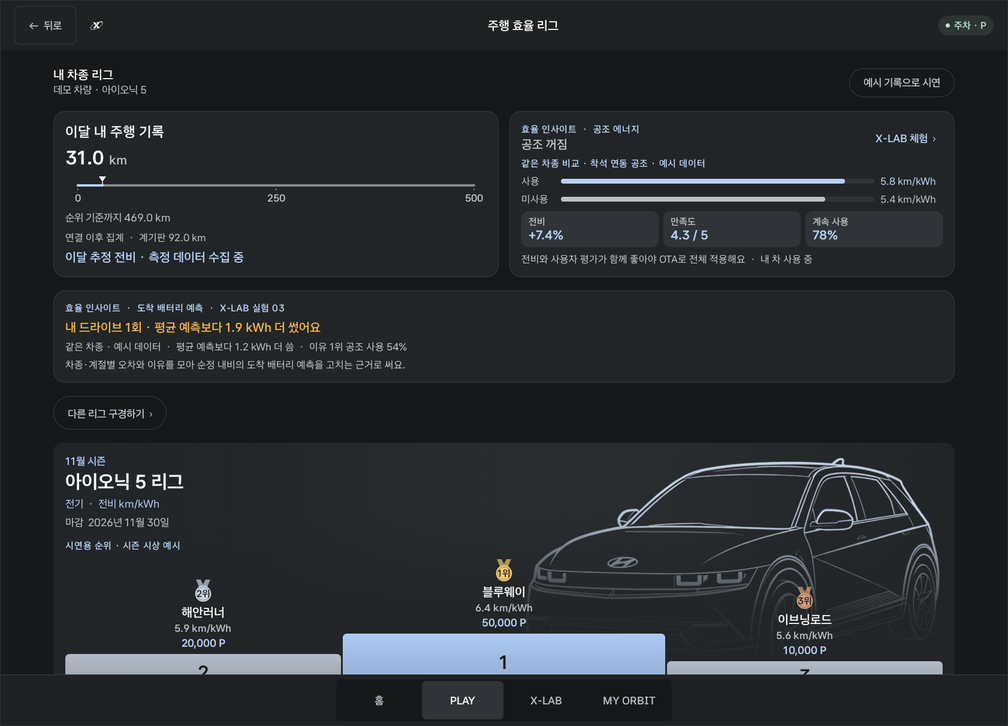
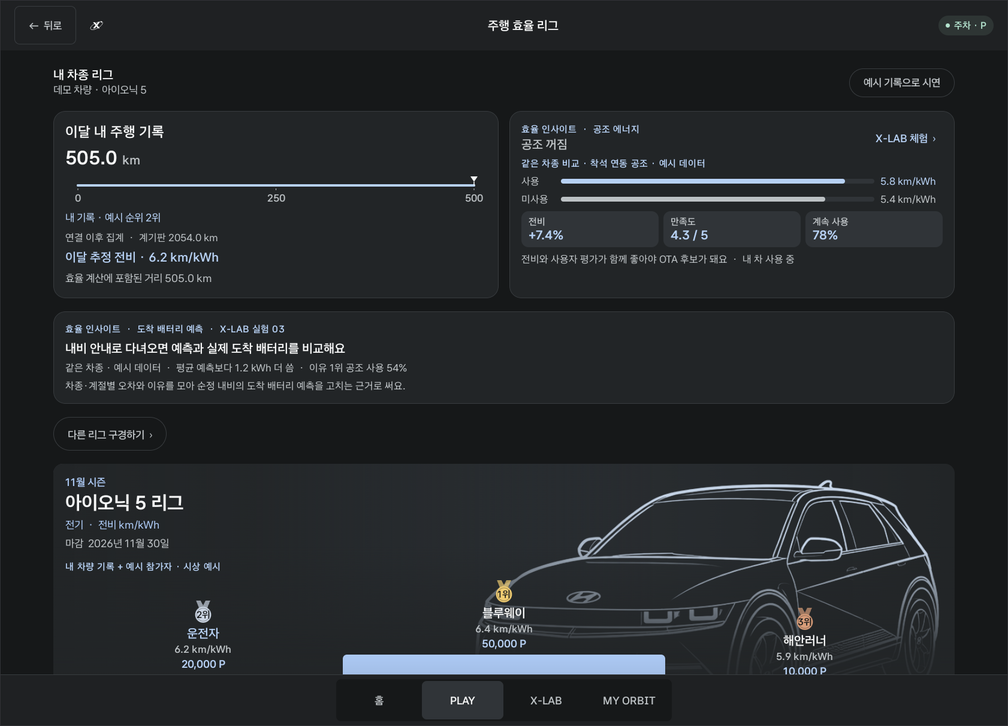
Reorganize the README for reading
Short intro with what PLAY, X-LAB and MY ORBIT each do, a clear note that tested
improvements are OTA candidates rather than releases, features grouped with the
navigation prediction check in one table, the experiment list as its own section,
numbered demo steps, and a scope table that separates what works, what is example data
and what needs Hyundai Motor Group. The league screenshot now shows the driver's entry
ranked by name.

Changed region(s): [[0.0615, 0.303, 0.9534, 0.9394], [0.0615, 0.2121, 0.4613, 0.303], [0.6766, 0.3333, 0.7996, 0.3636]]

diff --git a/README.md b/README.md
@@ -2,37 +2,39 @@
 
 > **Every Drive Shapes What's Next.** 모든 주행 경험이 다음 변화를 만듭니다.
 
-**ORBIT X**는 운전자가 차를 쓰면서 드러나는 **불편을 찾아내고, 개선안을 먼저 시험해 보고, 그 반응과 성과를 현대자동차그룹이 개선·OTA 여부를 판단하는 근거로 넘기는** Pleos Connect 앱입니다.
-**PLAY는 참여를 만들고, X-LAB은 개선의 근거를 만듭니다.** 현대자동차그룹 차량용 앱 개발 공모전 출품작입니다.
+**ORBIT X**는 운전자가 평소처럼 차를 쓰는 동안 드러나는 **불편을 찾고**, 개선안을 **실제 차에서 먼저 시험해 보고**, 그 반응과 성과를 현대자동차그룹이 **개선·OTA 여부를 판단하는 근거**로 넘기는 Pleos Connect 앱입니다. 현대자동차그룹 차량용 앱 개발 공모전 출품작입니다.
+
+- **PLAY**는 참여를 만듭니다. 주행 효율 리그, 드라이브, 미션으로 매일 쓸 이유를 줍니다.
+- **X-LAB**은 개선의 근거를 만듭니다. 개선안을 체험하고 기존 방식과 비교합니다.
+- **MY ORBIT**는 참여에 보상합니다. 포인트를 블루멤버스 포인트로 바꾸는 구조를 제안합니다.
 
 | 한눈에 보기 | |
 | --- | --- |
 | 앱 | ORBIT X · Android Automotive (Kotlin, Jetpack Compose) |
 | 개발·테스트 환경 | **Pleos Connect v2.1.0 에뮬레이터** · Android 14 (API 34) · x86_64 · **2560 × 1440 px, 160 dpi** |
 | 사용 SDK | Pleos Vehicle SDK 2.3.2 · Pleos NaviHelper 3.0.5 · Android Automotive OS API |
+| 화면 테마 | 시스템 설정을 따라 다크·라이트 모드 모두 지원 |
 | 실행 방법 | [실행 방법](#실행-방법) 참고 |
 | APK | 제출용 release APK는 `apk/` 폴더에 올릴 예정입니다. 시연용 debug APK는 `app/build/outputs/apk/debug/app-debug.apk`로 빌드됩니다. |
 
-**목차** · [핵심 아이디어](#핵심-아이디어) · [화면 미리보기](#화면-미리보기) · [기능](#기능) · [실행 방법](#실행-방법) · [시연 가이드](#시연-가이드) · [데이터와 개인정보](#데이터와-개인정보) · [향후 활용](#향후-차량-개발에-어떻게-쓰나요) · [구현 범위](#구현-범위와-sdk)
+**목차** · [핵심 아이디어](#핵심-아이디어) · [화면 미리보기](#화면-미리보기) · [기능](#기능) · [실험 목록](#실험-목록) · [실행 방법](#실행-방법) · [시연 가이드](#시연-가이드) · [데이터와 개인정보](#데이터와-개인정보) · [향후 활용](#향후-차량-개발에-어떻게-쓰나요) · [구현 범위](#구현-범위와-sdk)
 
 ---
 
 ## 핵심 아이디어
 
-### 불편 발견 → 개선안 → 시험 → 업데이트
+### 불편 발견 → 개선안 → 시험 → 판단·업데이트
 
 | 단계 | ORBIT X에서 하는 일 | 앱의 실제 기능 |
 | --- | --- | --- |
-| **1. 발견** (PLAY) | 평소 주행에서 차량 신호와 운전자 반응으로 불편·낭비를 찾음 | 주행 효율 리그, 드라이브 리포트, 미션의 미사용 이유, 빈 좌석 공조 감지 |
-| **2. 개선안** (X-LAB) | 개선 아이디어를 실제 차량 기능으로 먼저 체험 | 착석 연동 공조(실제 공조 제어), OTA 도어 잠금(실제 도어 제어) |
-| **3. 시험** | 기존 방식과 개선안을 같은 과제·같은 차종으로 비교 | A/B 비교(운전자 조작 여부·선호 이유), 순정 기능 예측과 실제 비교(도착 배터리), 사용/미사용 차량 비교, 만족도·계속 사용 의향 |
-| **4. 판단·업데이트** | 사용자 반응과 실제 성과가 함께 확인된 개선만 현대자동차그룹 개발·검증을 거쳐 OTA 후보가 됨. 반응이 없거나 효과가 없으면 고쳐 다시 시험하거나 중단 | 리그·장기 미션으로 배포 후 재확인 (OTA 배포 자체는 그룹 개발·배포 체계와 연계가 필요하며 앱에는 없음) |
+| **1. 발견** (PLAY) | 평소 주행의 차량 신호와 운전자 반응으로 불편·낭비를 찾음 | 주행 효율 리그, 드라이브 리포트, 미션의 미사용 이유, 빈 좌석 공조 감지 |
+| **2. 개선안** (X-LAB) | 개선 아이디어를 실제 차량 기능으로 먼저 체험 | 착석 연동 공조(실제 공조 제어), 도어 잠금 OTA 평가(실제 도어 제어) |
+| **3. 시험** | 기존 방식과 개선안, 순정 기능의 예측과 실제를 같은 조건에서 비교 | A/B 비교(운전자 조작 여부·선호 이유), 내비 예상 전비·도착 배터리 vs 실제, 사용/미사용 차량 비교, 만족도·계속 사용 의향 |
+| **4. 판단·업데이트** | 반응과 성과가 함께 확인된 개선만 현대자동차그룹 개발·검증을 거쳐 OTA 후보가 됨. 아니면 고쳐 다시 시험하거나 중단 | 리그·장기 미션으로 배포 후 재확인 (OTA 배포 자체는 그룹 개발·배포 체계와 연계가 필요하며 앱에는 없음) |
 
-운전자는 리그·드라이브·미션으로 참여하며 포인트를 받고, 현대자동차그룹은 **무엇이 불편한지, 왜 그런지, 개선이 실제로 나아졌는지**를 근거로 다음 업데이트를 결정합니다.
+> **시험한다고 모두 배포되는 것은 아닙니다.** X-LAB은 개선안이 정말 나은지 가려내는 곳입니다. 운전자 반응이 없거나 전비·조작 같은 실제 성과가 나오지 않으면 고쳐서 다시 시험하거나 접습니다. 효과가 확인된 개선도 바로 차에 들어가지 않고, 현대자동차그룹의 개발·안전·품질 검증과 OTA 배포 체계를 거쳐야 합니다. ORBIT X가 맡는 것은 **그 판단에 쓸 근거를 모으는 부분**입니다.
 
-> **시험한다고 모두 배포되는 것은 아닙니다.** X-LAB은 개선안이 정말 나은지 가려내는 곳입니다. 운전자 반응이 없거나 전비·조작 같은 실제 성과가 나오지 않으면 그 개선안은 고쳐서 다시 시험하거나 접습니다. 반대로 효과가 확인된 개선도 바로 차에 들어가지 않고, 현대자동차그룹의 개발·안전·품질 검증과 OTA 배포 체계를 거쳐야 합니다. ORBIT X가 맡는 것은 그 판단에 쓸 근거를 모으는 부분입니다.
-
-> **공조 효율화는 이 순환의 첫 번째 사례일 뿐입니다.** 리그에서 "빈 좌석 공조가 전비를 깎을 수 있다"는 낭비 가능성을 발견하고(전비 차이만으로 원인을 단정하지 않음), X-LAB에서 착석 연동 공조를 시험해 실제 전비 차이와 운전자 만족을 확인한 뒤, 효과가 있을 때만 OTA 후보로 넘기는 흐름을 처음부터 끝까지 보여주기 위해 골랐습니다. 같은 틀로 도어 잠금 OTA 평가와 순정 내비의 도착 배터리 예측을 실제 도착 배터리와 맞춰 보는 실험을 구현했고, 지금 Pleos Connect에서 불편한 점(송풍구 방향 조절, 여러 화면에 겹치는 주행 정보, Gleo 음성 명령 실패)을 다음 실험으로 올려 두었습니다. 모든 실험은 드라이브 리포트 질문을 공통으로 쓰고, 숫자로 볼 수 있는 실험은 주행 효율 리그로 효과를 재며, 실험마다 PLAY 하나만 더합니다.
+> **공조는 첫 번째 사례일 뿐입니다.** 리그에서 "빈 좌석 공조가 전비를 깎을 수 있다"는 낭비 가능성을 발견하고(전비 차이만으로 원인을 단정하지 않음), X-LAB에서 착석 연동 공조를 시험해 실제 전비 차이와 만족도를 확인한 뒤, 효과가 있을 때만 OTA 후보로 넘기는 흐름을 보여 주려고 골랐습니다. 같은 틀로 **도어 잠금 OTA 평가**와 **순정 내비의 도착 배터리 예측 검증**을 구현했고, 지금 Pleos Connect에서 불편한 점(송풍구 방향 조절, 여러 화면에 겹치는 주행 정보, Gleo 음성 명령 실패)을 다음 실험으로 올려 두었습니다.
 
 ### 이름에 담은 뜻
 
@@ -47,40 +49,33 @@
 
 ## 화면 미리보기
 
-Pleos Connect v2.1.0 에뮬레이터에서 현재 빌드로 캡처했습니다. 기록을 초기화한 뒤 순정 내비로 팔당전망대 안내를 시작하고, Virtual Console로 주행(31 km, 배터리 58.0 → 52.1 kWh, 속도·브레이크 변화)을 넣어 리그·드라이브 리포트·주행 습관 값을 만들었습니다. 앱 화면은 앱 영역만 잘랐고, 내비 화면은 전체 화면입니다.
+Pleos Connect v2.1.0 에뮬레이터에서 현재 빌드로 캡처했습니다. 순정 내비로 안내를 받고 Virtual Console로 주행·배터리·속도를 넣어 값을 만들었습니다. 앱 화면은 앱 영역만 잘랐고, 내비 화면은 전체 화면입니다.
 
 | 홈 | 주행 효율 리그 |
 | --- | --- |
 | ![홈](docs/screenshots/01_home.png) | ![리그](docs/screenshots/02_league.png) |
-| 슬로건과 인사말, PLAY·X-LAB 진입, 포인트 | 이달 주행 기록, 공조 인사이트와 같은 차종 비교(예시), 도착 배터리 예측 인사이트(내 기록 + 예시), 순위(예시) |
-| **드라이브** | **X-LAB** |
+| 슬로건과 인사말, PLAY·X-LAB 진입, 포인트 | 이달 505 km로 순위 등록(이용자 이름 "운전자" 2위), 공조 인사이트·같은 차종 비교(예시), 도착 배터리 예측 카드 |
+| **드라이브** | **X-LAB 실험 목록** |
 | ![드라이브](docs/screenshots/04_drive.png) | ![X-LAB](docs/screenshots/08_xlab_experiments.png) |
-| 진행 중 경로(남은 거리·시간·도착 배터리·내비 예상 전비), 드라이브 리포트(31 km · 5.9 kWh · 예상 전비 7.8 → 실제 5.3 km/kWh, 도착 배터리 54.0 → 52.1 kWh, 주행 중 측정), 실험 03 질문, 나의 드라이브 기록 | X-LAB → 실험 목록: 실험 6개의 단계(발견 → 시험 → 배포 → 재확인, 효과가 없으면 보류·중단)와 연결된 PLAY, 응답 수 |
-| **착석 연동 공조** | **OTA 평가 (실제 도어 제어)** |
+| 진행 중 경로(남은 거리·시간·도착 배터리·내비 예상 전비)와 드라이브 리포트(예상 전비 7.8 → 실제 5.3 km/kWh, 도착 배터리 54.0 → 52.1 kWh, 주행 중 측정), 실험 03 질문 | 실험 6개의 단계(발견 → 시험 → 배포 → 재확인)와 연결된 PLAY, 응답 수 |
+| **착석 연동 공조** | **도어 잠금 OTA 평가** |
 | ![공조](docs/screenshots/09_climate.png) | ![OTA](docs/screenshots/10_ota.png) |
-| 빈 차량을 감지해 순정 공조를 끄고 "에너지 절약" 표시 | Vehicle SDK로 네 문을 잠그고 풀며 버튼을 평가 |
+| 빈 차량을 감지해 순정 공조를 끄고 "에너지 절약" 표시 | Vehicle SDK로 실제 네 문을 잠그고 풀며 버튼을 평가 |
 | **MY ORBIT** | **개선안 비교 (실제 차량 A/B)** |
 | ![MY ORBIT](docs/screenshots/11_my_orbit.png) | ![A/B 비교](docs/screenshots/13_ab_compare.png) |
-| 포인트와 블루멤버스 전환 안내 | 순정 공조로 직접 SYNC 켜기(직접 조작) vs 착석하면 자동으로(조작 0회), 운전자가 손대야 하는지 비교 |
+| 포인트와 블루멤버스 전환 안내 | 직접 SYNC 켜기(직접 조작) vs 앉으면 자동으로(조작 0회) |
 
 ### 주행 중 (기어 D)
 
-| 앱 화면 잠금 | 순정 내비 위 충전 알림 (순정 저잔량 안내와 같은 역할) | 알림 버튼 → 순정 내비 충전소 목록 |
+| 앱 화면 잠금 | 내비 위 충전 알림 | 알림 버튼 → 충전소 목록 |
 | --- | --- | --- |
 | ![주행 중 잠금](docs/screenshots/03_drive_lock.png) | ![내비 알림](docs/screenshots/05_nav_alert_driving.png) | ![충전소](docs/screenshots/06_nav_chargers.png) |
-| Pleos 주행 제한에 따라 "주행 중에는 사용할 수 없습니다." 표시. P로 돌아오면 다시 조작 | 앱을 열지 않고 내비 위에 제안 | 경로 주변 충전소를 고르면 내비가 경유지로 추가 |
+| Pleos 주행 제한에 따라 "주행 중에는 사용할 수 없습니다." 표시. P로 돌아오면 다시 조작 | 앱을 열지 않고 내비 위에 안내 (순정 저잔량 안내와 같은 역할) | 경로 주변 충전소를 고르면 내비가 경유지로 추가 |
 
-| 내비 위 주행 습관 안내 |
-| --- |
-| ![주행 습관 안내](docs/screenshots/14_nav_driving_tip.png) |
-| 급가속·급제동이 3번 쌓이면 3초만 띄우고 스스로 사라집니다. 한 드라이브에 최대 2번. |
-
-### 도착 후 (기어 P)
-
-| 내비 위 X-LAB 실험 질문 |
-| --- |
-| ![실험 질문](docs/screenshots/12_nav_experiment_question.png) |
-| 도착 후 주차하면 이번 드라이브의 실험 질문을 내비 위에 띄웁니다. 앱을 다시 열지 않고 버튼 하나로 답하고, 응답은 X-LAB 실험 카드에 쌓입니다. 주행 중에는 띄우지 않습니다. |
+| 내비 위 주행 습관 안내 | 도착 후 내비 위 X-LAB 실험 질문 (기어 P) |
+| --- | --- |
+| ![주행 습관 안내](docs/screenshots/14_nav_driving_tip.png) | ![실험 질문](docs/screenshots/12_nav_experiment_question.png) |
+| 급가속·급제동이 3번 쌓이면 3초만 띄우고 스스로 사라짐. 한 드라이브에 최대 2번 | 주차하면 이번 드라이브의 실험 질문을 띄우고 버튼 하나로 답함. 주행 중에는 띄우지 않음 |
 
 ---
 
@@ -91,20 +86,37 @@ Pleos Connect v2.1.0 에뮬레이터에서 현재 빌드로 캡처했습니다. 
 ### PLAY · 발견
 
 **주행 효율 리그**
-- 같은 차종끼리 월간 추정 전비(km/kWh)·연비(km/L)를 비교합니다. 누적거리와 배터리 에너지로 계산하고 충전 구간은 뺍니다. 주행 중 내비가 앞에 있어 앱이 뒤로 가도 백그라운드 서비스가 계속 기록합니다. **실제 SDK**
-- **효율 인사이트:** 주차 중 착석과 공조 구역 전원을 읽기 전용으로 확인해, 빈 좌석에 공조가 켜져 있으면 앰버색으로 알려 줍니다. **실제 SDK**
-- **같은 차종 비교:** 착석 연동 공조 사용/미사용 차량의 전비와 만족도·계속 사용 비율. 실제 다수 차량을 분석한 값이 아니라, 서버 집계가 생겼을 때 보여 줄 화면을 예시 값으로 만든 것입니다. **예시**
-- 순위·경쟁자·시상액. **예시**
+- **월간 추정 전비·연비:** 같은 차종끼리 비교합니다. 누적거리와 배터리 에너지로 계산하고 충전 구간은 뺍니다. 내비가 앞에 있어 앱이 뒤로 가도 백그라운드 서비스가 계속 기록합니다. **실제 SDK**
+- **순위 등록:** 이달 500 km를 넘으면 내 기록이 **앱 이용자 이름**(기본은 Pleos 프로필 이름 "운전자")으로 순위에 올라갑니다. **실제 SDK** · 다른 참가자·시상액은 **예시**
+- **공조 인사이트:** 주차 중 착석과 공조 구역 전원을 읽기 전용으로 확인해, 빈 좌석 공조가 켜져 있으면 앰버색으로 알려 줍니다. **실제 SDK**
+- **도착 배터리 예측 카드:** 내 드라이브들의 평균 예측 오차를 보여 줍니다(X-LAB 실험 03). **실제 SDK** · 같은 차종 평균은 **예시**
+- **같은 차종 비교:** 착석 연동 공조 사용/미사용 차량의 전비·만족도·계속 사용 비율. 실제 다수 차량 분석이 아니라 서버 집계가 생겼을 때의 화면을 예시 값으로 만든 것입니다. **예시**
 
 **드라이브**
-- **출발 전 확인:** 차량 주행가능거리로 왕복 가능 거리, 배터리, 실내온도를 보여주고, 너무 춥거나 더우면 열선·착석 연동 공조 팁을 줍니다. **실제 SDK**
-- **자동으로 흘러가는 드라이브:** 순정 내비에서 안내를 시작하면 추천 모드로 드라이브가 자동 시작되고, 목적지가 자동 연결되며, 도착 이벤트로 기록이 자동 완료됩니다. **실제 SDK**
-- **경로 에너지 확인:** 남은 거리·시간·도착 시 예상 배터리(내비가 kWh로 알려 준 값을 현재 배터리 기준 %로 환산)와 **내비 예상 전비**(남은 거리 ÷ 내비가 예상한 사용 에너지)를 보여주고, 왕복이 주행가능거리보다 길면 충전소를 제안합니다. **실제 SDK**
-- **내비 예상 전비 vs 실제 전비, 도착 배터리 예측 vs 실제 (X-LAB 실험 03):** 드라이브 모드를 따로 고르지 않아도 순정 내비로 목적지를 검색해 안내를 받으면 자동으로 기록됩니다(드라이브 코스 추천은 그대로 둡니다). 현대·기아 순정 내비는 이미 도착 배터리를 예측하고, 모자라면 충전소를 경유지로 넣어 줍니다(EV 경로 플래너). ORBIT X는 이 기능을 다시 만들지 않고, 그 **예측이 실제와 얼마나 맞는지**를 기록합니다. 안내를 시작할 때 NaviHelper가 알려 준 도착 시 남는 에너지(kWh)를 저장하고, 도착하면 Vehicle SDK로 읽은 배터리 에너지와 비교해 드라이브 리포트에 "예상 전비 7.8 → 실제 5.3 km/kWh · 예측보다 1.9 kWh 더 씀"처럼 보여 줍니다(예상 전비 = 출발 때 경로 거리 ÷ (출발 배터리 − 예상 도착 배터리)). 주행 중에는 차이의 원인이 될 만한 것을 함께 잽니다: 급가속·급제동 횟수(차량 속도를 0.5초마다 읽어 3 m/s² 넘게 빨라지거나 3.5 m/s² 넘게 줄어든 순간, 급제동은 브레이크 페달 상태도 확인), 공조를 켠 시간, 평균 속도. 리포트에 "주행 중 측정 · 급가속 4회 · 급제동 2회 · 공조 32분 (추정 약 0.5 kWh) · 평균 52 km/h"처럼 남기고(공조 에너지는 평균 1 kW로 가정한 참고용 추정치이며 실제 소비는 외기온·히트펌프에 따라 크게 다름), 차이가 나면 이유(공조 사용, 정체·경로)를 한 번 묻습니다. 중간에 충전한 드라이브는 비교에서 뺍니다. 가속 페달 값은 SDK에 없어 급가속으로만 보고, 제한속도는 내비가 주지 않아 과속은 판단하지 않습니다. **실제 SDK**
-- **주행 습관 안내:** 급가속·급제동이 한 드라이브에서 3번 쌓이면 순정 내비 위에 "급가속 2회 · 급제동 1회 / 전비에 악영향을 줄 수 있어요. 부드럽게 안전운전하세요."를 3초만 띄우고 스스로 사라집니다. 누를 필요가 없고, 한 드라이브에 최대 2번(3회, 6회째)만 띄워 자주 방해하지 않습니다. **실제 SDK**
-- **주행 중 내비 위 알림:** 배터리가 부족하면(도착 예상 30% 이하 또는 현재 25% 이하) 순정 내비 위에 알림을 띄우고 버튼 하나로 순정 내비의 경로 주변 충전소 목록을 엽니다. 순정 저잔량 안내와 같은 역할이라 차별 기능으로 내세우지 않습니다. **실제 SDK**
-- **드라이브 리포트:** 출발·도착 때 읽은 값으로 거리·사용 에너지·전비를 계산하고, 내비 안내로 다녀왔다면 도착 배터리 예측 vs 실제와 주행 중 측정(급가속·급제동·공조·평균 속도)을 함께 보여 줍니다. 질문은 한 번에 하나(기분 한 줄 → 추천이 맞았는지 → X-LAB 실험 질문 하나)만 묻고(실험 질문은 도착 후 내비 위 알림으로도 답할 수 있음), 실제 목적은 도착 후 **목적 바꾸기**로 고칩니다. **실제 SDK**
+- **출발 전 확인:** 주행가능거리로 왕복 가능 거리, 배터리, 실내온도를 보여 주고, 너무 춥거나 더우면 열선·착석 연동 공조 팁을 줍니다. **실제 SDK**
+- **추천과 자동 연결:** 차량 상황으로 드라이브 모드(충전 들르기·동승자와 나들이·편한 경로·기분 전환)를 추천하고, 버튼 하나로 순정 내비 검색을 엽니다. 순정 내비에서 안내를 시작하면 드라이브가 자동 시작되고 목적지가 연결되며, 도착하면 자동으로 기록됩니다. **실제 SDK**
+- **경로 에너지 확인:** 남은 거리·시간, 도착 시 예상 배터리, **내비 예상 전비**를 보여 주고, 왕복이 주행가능거리보다 길면 충전소를 제안합니다. **실제 SDK**
+- **드라이브 리포트:** 출발·도착 때 읽은 값으로 거리·사용 에너지·전비를 계산합니다. 질문은 한 번에 하나(기분 한 줄 → 추천이 맞았는지 → X-LAB 실험 질문)만 묻고, 실제 목적은 **목적 바꾸기**로 고칩니다. **실제 SDK**
 - **나의 드라이브 기록:** 날짜·장소·거리·전비와 기분 한 줄을 남기고, **다시 가기**로 순정 내비 안내를 바로 시작합니다. 최근 20건을 기기에 보관합니다.
+
+**순정 내비 예측 vs 실제 (X-LAB 실험 03)**
+
+현대·기아 순정 내비는 이미 도착 배터리를 예측하고, 모자라면 충전소를 경유지로 넣어 줍니다(EV 경로 플래너). ORBIT X는 이 기능을 다시 만들지 않고, **그 예측이 실제와 얼마나 맞는지와 왜 어긋나는지**를 기록합니다. 드라이브 모드를 고르지 않아도 순정 내비로 안내를 받으면 자동으로 기록됩니다.
+
+| 무엇을 | 어떻게 | 리포트 예 |
+| --- | --- | --- |
+| 예상 전비 vs 실제 전비 | 출발 때 경로 거리 ÷ (출발 배터리 − 내비 예상 도착 배터리)를 실제 전비와 비교 | 예상 전비 7.8 → 실제 5.3 km/kWh |
+| 도착 배터리 예측 vs 실제 | NaviHelper가 준 도착 시 남는 에너지(Wh)를 도착 때 Vehicle SDK 배터리 에너지와 비교 | 54.0 → 52.1 kWh · 예측보다 1.9 kWh 더 씀 |
+| 차이의 원인 | 주행 중 차량 속도를 0.5초마다 읽어 급가속(3 m/s² 이상)·급제동(-3.5 m/s² 이하, 브레이크 페달 확인) 횟수, 공조를 켠 시간, 평균 속도를 기록 | 급가속 4회 · 급제동 2회 · 공조 32분(추정 약 0.5 kWh) · 평균 52 km/h |
+| 운전자의 이유 | 차이가 나면 한 번만 질문 | 공조 사용 / 정체·경로 / 모르겠어요 |
+
+- 공조 에너지는 평균 1 kW로 가정한 **참고용 추정치**이며, 실제 소비는 외기온·히트펌프에 따라 크게 다릅니다.
+- 중간에 충전한 드라이브와 출발 배터리보다 높은 오래된 예측은 비교에서 뺍니다.
+- 가속 페달 값은 SDK에 없어 급가속으로만 보고, 제한속도는 내비가 주지 않아 과속은 판단하지 않습니다.
+
+**주행 중 내비 위 안내**
+- **주행 습관 안내:** 급가속·급제동이 한 드라이브에서 3번 쌓이면 "급가속 2회 · 급제동 1회 / 전비에 악영향을 줄 수 있어요. 부드럽게 안전운전하세요."를 **3초만** 띄우고 스스로 사라집니다. 누를 필요가 없고 한 드라이브에 최대 2번(3회, 6회째)만 띄웁니다. **실제 SDK**
+- **충전 알림:** 도착 예상 30% 이하 또는 현재 25% 이하이면 알림을 띄우고, 버튼 하나로 경로 주변 충전소 목록을 엽니다. 순정 저잔량 안내와 같은 역할이라 차별 기능으로 내세우지 않습니다. **실제 SDK**
 
 <details>
 <summary>드라이브 추천은 어떻게 정하나요?</summary>
@@ -119,7 +131,7 @@ Pleos Connect v2.1.0 에뮬레이터에서 현재 빌드로 캡처했습니다. 
 | 4 | 최근 7일 중 3일 이상 같은 목적지 도착 (목적지는 해시로 저장) | 기분 전환 |
 | 5 | 그 외 | 기분 전환 |
 
-드라이브마다 **차량 상황**(배터리, 동승, 주행가능거리, 실내온도) + **선택**(추천 모드 vs 실제 목적, 알림 수락 여부, 실제 거리·에너지) + **이유**(추천이 맞았는지, 기분 한 줄)를 한 묶음으로 남기고 추천 수락률을 보여줍니다. 다음 단계는 ① 내 이력으로 추천 순서를 기기 안에서 개인화하고, ② 동의한 기록을 서버에서 차종·상황별로 집계해 개선 과제를 찾고, ③ X-LAB에서 검증한 뒤 OTA로 배포하는 것입니다. 출퇴근 시간도 설정 화면 대신 드라이브 기록의 반복 패턴에서 배우는 방향을 제안합니다.
+드라이브마다 **차량 상황**(배터리, 동승, 주행가능거리, 실내온도) + **선택**(추천 모드 vs 실제 목적, 알림 수락 여부, 실제 거리·에너지) + **이유**(추천이 맞았는지, 기분 한 줄)를 한 묶음으로 남기고 추천 수락률을 보여 줍니다. 다음 단계로는 내 이력으로 추천 순서를 기기 안에서 개인화하고, 동의한 기록을 서버에서 차종·상황별로 집계해 개선 과제를 찾는 방향을 제안합니다.
 
 </details>
 
@@ -138,13 +150,42 @@ Pleos Connect v2.1.0 에뮬레이터에서 현재 빌드로 캡처했습니다. 
 
 ### X-LAB · 개선안과 시험
 
-- **착석 연동 공조:** 네 좌석의 착석을 읽어 빈 좌석 공조는 끄고, 앉은 좌석은 목표 23°C와 열선·통풍으로 맞춥니다. 좌석별 풍량을 지원하는 차는 빈 좌석 바람을 가장 약하게(지원 시 0단) 줄이고, 앞좌석 풍량이 하나로 묶인 차(에뮬레이터)는 빈 좌석 온도만 절전으로 맞춥니다. 모두 비면 순정 공조를 끕니다. 낭비가 보이면 **빈 좌석 공조 끄기** 버튼 하나로 켤 수 있습니다. **실제 SDK**
-- **개선안 비교(A/B):** "동승자가 탔을 때 앞좌석 온도를 함께 맞추기"를 실제 차로 두 번 합니다. ① **직접 바꾸기**는 순정 공조 화면에서 SYNC를 켜고, ② **앉으면 자동으로**는 동승석 착석을 감지한 앱이 SYNC를 켭니다. 두 번 모두 차량이 보고한 SYNC 상태로 완료를 확인하고, ③ 결과에서 운전자가 직접 조작해야 했는지를 나란히 비교한 뒤 선호와 이유를 남깁니다. 보통 공조는 켜 둔 채 덥거나 추울 때만 조절하므로, 빠르기보다 동승자가 탔을 때 운전자가 손댈 일이 줄어드는지를 봅니다. **실제 SDK**
-- **도어 잠금 OTA 평가:** 더 뉴 그랜저에 OTA로 추가된 주행 정보 화면 도어 잠금 버튼을 체험합니다. "모든 도어 잠그기 / 잠금 해제"를 누르면 Vehicle SDK로 **실제 네 문의 잠금**을 바꾸고, 차량이 보고한 상태를 다시 읽어 표시합니다. P단에서만 동작합니다. **실제 SDK**
+- **착석 연동 공조:** 네 좌석의 착석을 읽어 빈 좌석 공조는 끄고, 앉은 좌석은 목표 23°C와 열선·통풍으로 맞춥니다. 모두 비면 순정 공조를 끕니다. 좌석별 풍량을 지원하는 차는 빈 좌석 바람을 가장 약하게(지원 시 0단) 줄이고, 앞좌석 풍량이 하나로 묶인 차(에뮬레이터)는 빈 좌석 온도만 절전으로 맞춥니다. **실제 SDK**
+- **개선안 비교(A/B):** "동승자가 탔을 때 앞좌석 온도를 함께 맞추기"를 실제 차로 두 번 합니다.
+  1. **직접 바꾸기:** 순정 공조 화면에서 운전자가 SYNC를 켭니다.
+  2. **앉으면 자동으로:** 동승석 착석을 감지한 앱이 SYNC를 켭니다.
+  3. **결과:** 두 번 모두 차량이 보고한 SYNC 상태로 완료를 확인하고, 운전자가 직접 조작해야 했는지(직접 조작 vs 조작 0회)를 비교한 뒤 선호와 이유를 남깁니다.
 
-**실험 목록: 공통 PLAY 2개 + 실험마다 하나**
+  보통 공조는 켜 둔 채 덥거나 추울 때만 조절하므로, 빠르기보다 **동승자가 탔을 때 운전자가 손댈 일이 줄어드는지**를 봅니다. **실제 SDK**
+- **도어 잠금 OTA 평가:** 더 뉴 그랜저에 OTA로 추가된 주행 정보 화면 도어 잠금 버튼을 체험합니다. 버튼을 누르면 Vehicle SDK로 **실제 네 문의 잠금**을 바꾸고 차량이 보고한 상태를 다시 읽어 표시한 뒤, 버튼을 찾기 쉬웠는지 평가합니다. P단에서만 동작합니다. **실제 SDK**
 
-모든 실험은 **드라이브 리포트 질문**(도착 직후 이유 수집)을 함께 쓰고, 숫자로 볼 수 있는 실험은 **주행 효율 리그**로 효과를 잽니다. 실험마다 PLAY를 하나만 더합니다. 드라이브마다 실험 질문을 하나 묻는데, 내비 안내로 다녀와 도착 배터리 예측과 실제가 다르면 실험 03 질문을, 그 밖에는 나머지 실험을 돌려 가며 묻습니다. 도착 후 주차하면 **내비 위 알림 버튼**으로 앱을 열지 않고 답할 수 있고, 앱의 드라이브 리포트에서도 답할 수 있습니다. 응답 수는 **X-LAB → 실험 목록**의 실험 카드에 쌓입니다. 실험 하나는 설정 묶음(단계, 리그 지표, 드라이브 질문, 추가 PLAY)이라 새 실험을 넣어도 PLAY 화면을 고칠 필요가 없습니다. 운영 단계에서는 이 설정을 서버에서 내려보냅니다.
+### MY ORBIT · 보상
+
+- 참여 기록과 포인트, 블루멤버스 포인트 전환(제휴 후 제공)을 안내합니다.
+- 홈 인사말과 리그 순위에는 Pleos 프로필 이름을 기본으로 쓰고, 읽을 수 없으면 "운전자"로 표시합니다. 직접 바꿀 수도 있습니다.
+- **기록 관리 → 기록 초기화** `시연용 · 배포 전 제거`
+
+<details>
+<summary>왜 블루멤버스 포인트로 바꿔 주나요?</summary>
+
+| 관점 | 이유 |
+| --- | --- |
+| 운전자 | 앱 안에서만 쓰는 포인트는 쓸 곳이 없어 금방 관심이 식습니다. 이미 쓰는 블루멤버스로 바꾸면 정비·차량용품처럼 차에 실제로 쓰는 혜택이 됩니다. |
+| 현대자동차그룹 | 새 포인트 제도나 정산 체계 없이 기존 멤버십을 그대로 씁니다. 지급한 포인트가 그룹 서비스 안에서 쓰이므로 비용이 고객 혜택과 재방문으로 돌아옵니다. |
+| 개발팀 | 외부 설문 패널이나 사용성 테스트를 따로 모집하는 대신, 실제 내 차를 쓰는 운전자에게 보상하고 실제 환경의 의견을 받습니다. 포인트 재원은 실험을 의뢰한 조직이 부담합니다. |
+| 데이터 품질 | 포인트는 긍정 평가가 아니라 정해진 체험과 응답을 끝낸 데 줍니다. 좋은 점수를 줘야 보상받는 구조가 아니어서 솔직한 응답이 나오고, 월 적립 한도로 보상만 노린 반복 참여를 막습니다. |
+
+</details>
+
+---
+
+## 실험 목록
+
+모든 실험은 **드라이브 리포트 질문**(도착 직후 이유 수집)을 함께 쓰고, 숫자로 볼 수 있는 실험은 **주행 효율 리그**로 효과를 잽니다. 실험마다 PLAY를 하나만 더합니다.
+
+- 드라이브마다 실험 질문을 하나 묻습니다. 내비 안내로 다녀와 도착 배터리 예측과 실제가 다르면 실험 03을, 그 밖에는 나머지 실험을 돌려 가며 묻습니다.
+- 도착 후 주차하면 **내비 위 알림 버튼**으로 앱을 열지 않고 답할 수 있고, 앱의 드라이브 리포트에서도 답할 수 있습니다. 응답 수는 **X-LAB → 실험 목록**에 쌓입니다.
+- 실험 하나는 설정 묶음(단계, 리그 지표, 드라이브 질문, 추가 PLAY)이라 새 실험을 넣어도 PLAY 화면을 고칠 필요가 없습니다. 운영 단계에서는 이 설정을 서버에서 내려보냅니다.
 
 | 실험 | 불편·낭비 | 리그 | 드라이브 질문 | 추가 PLAY | 단계 |
 | --- | --- | --- | --- | --- | --- |
@@ -155,21 +196,7 @@ Pleos Connect v2.1.0 에뮬레이터에서 현재 빌드로 캡처했습니다. 
 | 05 주행 정보 역할 나누기 | 같은 정보가 슬림 디스플레이·HUD·드라이빙 뷰에 겹침 | - | 같은 정보가 여러 화면에 보여 헷갈렸나요? | 화면별로 볼 정보 고르기 (준비 중) | 발견 |
 | 06 Gleo 음성 명령 | "에어컨 높여줘, 더워" 같은 일상 표현 인식 실패 | - | Gleo가 못 알아들은 말이 있었나요? | 못 알아들은 표현 모으기 (준비 중) | 발견 |
 
-
-### MY ORBIT · 보상
-
-- 참여 기록과 포인트, 블루멤버스 포인트 전환(제휴 후 제공)을 안내합니다.
-
-**왜 블루멤버스 포인트로 바꿔 주나요?**
-
-| 관점 | 이유 |
-| --- | --- |
-| 운전자 | 앱 안에서만 쓰는 포인트는 쓸 곳이 없어 금방 관심이 식습니다. 이미 가입해 쓰는 블루멤버스로 바꾸면 정비·차량용품처럼 차에 실제로 쓰는 혜택이 되어 참여할 이유가 생깁니다. |
-| 현대자동차그룹 | 새 포인트 제도나 별도 정산 체계를 만들 필요 없이 기존 멤버십을 그대로 씁니다. 지급한 포인트가 그룹 서비스 안에서 쓰이므로 비용이 고객 혜택과 재방문으로 돌아옵니다. |
-| 개발팀 | 외부 설문 패널이나 사용성 테스트를 따로 모집하는 대신, 실제 내 차를 쓰는 운전자에게 보상하고 실제 환경의 의견을 받습니다. 포인트 재원은 실험을 의뢰한 조직이 부담합니다. |
-| 데이터 품질 | 포인트는 긍정 평가가 아니라 정해진 체험과 응답을 끝낸 데 줍니다. 좋은 점수를 줘야 보상받는 구조가 아니어서 솔직한 응답이 나오고, 월 적립 한도로 보상만 노린 반복 참여를 막습니다. |
-- 홈 인사말은 Pleos 프로필(Android 사용자) 이름을 기본으로 쓰고, 읽을 수 없는 환경에서는 Pleos 기본 프로필 이름 "운전자"로 인사합니다. 직접 바꿀 수도 있습니다.
-- **기록 관리 → 기록 초기화** `시연용 · 배포 전 제거`
+단계는 발견 → 시험 → 배포 → 재확인 순서이며, 효과가 없으면 보류·중단합니다.
 
 ---
 
@@ -214,46 +241,53 @@ adb shell am start --user 10 -n com.example.orbitx/.MainActivity
 adb forward tcp:8088 tcp:8088
 ```
 
-PC 브라우저에서 [Pleos Virtual Console](http://127.0.0.1:8088/)을 열고 **Emulation Controls**에서 아래 카드를 조작합니다. [콘솔 카드 가이드](https://document.pleos.ai/docs/pleos-only/app-test-guide/virtual-console-guide)
+PC 브라우저에서 [Pleos Virtual Console](http://127.0.0.1:8088/)을 열고 **Emulation Controls**에서 아래 카드를 조작합니다. 콘솔 하단에 "DDS OFFLINE"이 보이면 페이지를 새로고침합니다. [콘솔 카드 가이드](https://document.pleos.ai/docs/pleos-only/app-test-guide/virtual-console-guide)
 
 | 확인할 기능 | 콘솔 카드 | ORBIT X 화면 |
 | --- | --- | --- |
-| 추정 전비 | **Motion → Odometer**, **Energy → Battery Energy** | PLAY → 주행 효율 리그 |
+| 추정 전비·순위 등록 | **Motion → Odometer**, **Energy → Battery Energy** (이달 500 km 이상) | PLAY → 주행 효율 리그 |
 | 충전 구간 제외 | **Energy → Charge Switch**, **Battery Energy** | PLAY → 주행 효율 리그 |
 | 빈 좌석 공조 낭비 | **Climate → Power**, **Convenience → Seat Occupancy** | 리그 인사이트, X-LAB → 착석 연동 공조 |
-| 저잔량 추천·충전 알림 (순정과 같은 역할) | **Energy → Battery SOC** (25% 이하) | PLAY → 드라이브, 내비 안내 중 알림 |
-| 도착 배터리 예측 vs 실제 | 내비 안내 시작 후 **Gear Selection** D, **Motion → Odometer**·**Energy → Battery Energy** 변경, 다시 P | PLAY → 드라이브 리포트 |
-| 급가속·급제동, 주행 습관 안내 | 기어 D에서 **Driving Controls**의 속도를 0 ↔ 60 km/h로 빠르게 바꾸고, 줄일 때 **Brake**를 밟음 (3번이면 안내) | 내비 위 3초 안내, 드라이브 리포트의 주행 중 측정 |
 | 동승자 추천·공조 | **Convenience → Seat Occupancy** | PLAY → 드라이브, X-LAB → 착석 연동 공조 |
-| 왕복 가능 거리·리포트 | **Energy → Remaining Range**, **Battery Energy**, **Motion → Odometer** | PLAY → 드라이브 |
+| 저잔량 추천·충전 알림 | **Energy → Battery SOC** (25% 이하) | PLAY → 드라이브, 내비 안내 중 알림 |
+| 예상 전비·도착 배터리 vs 실제 | 내비 안내 시작 후 **Gear Selection** D, **Odometer**·**Battery Energy** 변경, 다시 P | PLAY → 드라이브 리포트 |
+| 급가속·급제동, 주행 습관 안내 | 기어 D에서 **Driving Controls**의 속도를 0 ↔ 60 km/h로 빠르게 바꾸고, 줄일 때 **Brake** (3번이면 안내) | 내비 위 3초 안내, 드라이브 리포트 |
+| 왕복 가능 거리 | **Energy → Remaining Range**, **Battery Energy** | PLAY → 드라이브 |
 | 실제 도어 잠금 | 앱의 **모든 도어 잠그기**. 결과는 **Convenience → Door Lock**과 Pleos 상단 자물쇠 아이콘 | X-LAB → 도어 잠금 OTA 평가 |
 | 주행 제한 | **Motion → Gear Selection** P → D → P | 모든 화면 |
 
-**3분 시연 순서:** 리그에서 빈 좌석 공조 낭비 발견 → X-LAB에서 빈 좌석 공조 끄기(실제 공조 OFF) → OTA 평가로 실제 도어 잠금 → 드라이브에서 내비 안내 시작(자동 시작·연결) → 기어 D에서 앱 잠금, 급가속·급제동 3번이면 내비 위 3초 안내 → P로 돌아와 도착 시연, 드라이브 리포트의 예측 vs 실제 도착 배터리와 주행 중 측정, 기록
+**3분 시연 순서**
+1. 리그에서 빈 좌석 공조 낭비 발견
+2. X-LAB 착석 연동 공조로 빈 좌석 공조 끄기(실제 공조 OFF), A/B 비교
+3. 도어 잠금 OTA 평가로 실제 도어 잠금
+4. 드라이브에서 내비 안내 시작(자동 시작·연결, 내비 예상 전비)
+5. 기어 D에서 앱 잠금, 급가속·급제동 3번이면 내비 위 3초 안내
+6. P로 돌아와 도착 → 리포트의 예상 전비·도착 배터리 vs 실제와 주행 중 측정
 
 <details>
-<summary>상세 절차: 아이오닉 5 추정 전비 측정</summary>
+<summary>상세 절차: 리그 추정 전비와 순위 등록</summary>
 
 1. **PLAY → 주행 효율 리그**를 띄우고 기어는 **P**에 둡니다. **Energy → Battery Energy**를 **60.0 kWh**로 설정하고 약 5초 기다립니다.
 2. **Motion → Odometer**를 현재 계기판 값보다 **12 km 높게**, **Battery Energy**를 **58.0 kWh**로 바꿉니다. 두 변경은 30초 안에 적용합니다.
 3. **이달 추정 전비**가 **12 km ÷ 2.0 kWh = 6.0 km/kWh**로 표시됩니다. 기존 측정이 있으면 월간 합계에 더해집니다.
-4. 충전 시연: 거리는 그대로 두고 **Charge Switch → On**, **Battery Energy 70.0 kWh**, **Charge Switch → Off** 순서로 바꿉니다. 이후 거리를 **6 km** 더 올리고 배터리를 **68.0 kWh**로 낮추면 합계는 **18 km ÷ 4.0 kWh = 4.5 km/kWh**입니다.
+4. 충전 시연: **Charge Switch → On**, **Battery Energy 77.0 kWh**, **Charge Switch → Off** 순서로 바꾸면 충전 구간은 전비에서 빠집니다.
+5. 순위 등록: 충전과 주행(예: Odometer +250 km, Battery Energy −40 kWh)을 반복해 이달 500 km를 넘기면, 내 기록이 이용자 이름으로 아이오닉 5 리그 순위에 올라갑니다.
 
 - 월간 추정 전비 = 유효 구간 거리 합계 ÷ 같은 구간 배터리 순사용량 합계. 충전 중 샘플과 15초 넘게 끊긴 구간은 뺍니다.
 - Odometer에 HTTP 400이 뜨면 앱의 계기판 값보다 큰 정수 km를 입력합니다. 누적거리는 줄일 수 없습니다.
 - 가솔린·하이브리드는 **연료량 읽기 허용** 후 AAOS `FUEL_LEVEL`로 km/L를 계산합니다. 연료량을 제공하는 차량이나 별도 환경이 필요합니다.
-- 순위만 빠르게 보이려면 **예시 기록으로 시연 → 예시 주행 +24 km**를 씁니다.
+- 순위만 빠르게 보려면 **예시 기록으로 시연 → 예시 주행 +24 km**를 씁니다.
 
 </details>
 
 <details>
-<summary>상세 절차: 드라이브, 주행 중 알림, 도착 배터리 비교</summary>
+<summary>상세 절차: 드라이브, 주행 중 안내, 예측 vs 실제</summary>
 
-1. 기어 **P**에서 **PLAY → 드라이브**를 엽니다. 추천 카드의 버튼(예: 전망대 찾기)으로 순정 내비 검색을 엽니다. 다른 모드는 **다른 모드 고르기**에서 고릅니다.
-2. 내비에서 목적지 안내를 시작합니다. ORBIT X로 돌아오면 드라이브가 자동으로 시작되고 목적지가 연결되어 남은 거리·시간이 보입니다.
-3. 주행 중 충전 알림(순정 저잔량 안내와 같은 역할)을 보려면 **Energy → Battery SOC**를 25% 이하로 낮춘 상태에서 안내를 시작하고, 기어를 **D**로 바꿉니다. 내비 위에 알림이 뜨고 **충전소 경유**를 누르면 경로 주변 충전소 목록이 열립니다.
-4. 기어를 **P**로 돌리고 **도착 시연**을 누르면 드라이브 리포트와 기분 한 줄 질문, 나의 드라이브 기록이 이어집니다. 실제 도착 이벤트가 오면 같은 흐름이 자동으로 진행됩니다.
-5. 도착 배터리 예측 vs 실제: 배터리 **58.0 kWh**에서 팔당전망대 안내를 시작하면 내비 예측(약 54.0 kWh)이 저장됩니다. 기어 **D**에서 **Odometer**를 **31 km** 올리고 **Battery Energy**를 **52.1 kWh**로 낮춘 뒤 **P**로 바꾸고 **도착 시연**을 누르면, 리포트에 **54.0 → 52.1 kWh**와 "예측보다 1.9 kWh 더 씀"이 나옵니다.
+1. 기어 **P**에서 **PLAY → 드라이브**를 엽니다. 추천 카드의 버튼(예: 수변공원 찾기)으로 순정 내비 검색을 열고 목적지를 고릅니다. 다른 모드는 **다른 모드 고르기**에서 고릅니다.
+2. 내비에서 안내가 시작되면 ORBIT X 드라이브가 자동으로 시작되고, 남은 거리·시간·도착 배터리·내비 예상 전비가 보입니다.
+3. 기어를 **D**로 바꾸고 **Driving Controls**에서 속도를 빠르게 올렸다 내리기를 3번 하면 내비 위에 3초짜리 주행 습관 안내가 뜹니다. **Climate → Power**를 켜면 공조 시간도 기록됩니다.
+4. 충전 알림을 보려면 **Energy → Battery SOC**를 25% 이하로 낮추고 안내를 시작한 뒤 기어 **D**로 바꿉니다. **충전소 경유**를 누르면 경로 주변 충전소 목록이 열립니다.
+5. 예: 배터리 **58.0 kWh**에서 안내를 시작하고, **Odometer**를 경로 거리만큼 올리고 **Battery Energy**를 내비 예측보다 조금 낮게 바꾼 뒤 **P**로 돌아와 **도착 시연**을 누릅니다. 리포트에 "예상 전비 7.8 → 실제 5.3 km/kWh · 예측보다 1.9 kWh 더 씀"과 주행 중 측정이 나옵니다.
 
 </details>
 
@@ -262,7 +296,7 @@ PC 브라우저에서 [Pleos Virtual Console](http://127.0.0.1:8088/)을 열고 
 
 1. 기어 **P**에서 **X-LAB → 착석 연동 공조 → 자동 공조**를 열고 스위치를 켭니다.
 2. 콘솔 **Convenience → Seat Occupancy**에서 좌석을 **Empty / Occupied**로 바꾸며 좌석 표시와 **A/C ON/OFF**를 확인합니다. 같은 공조 구역을 공유하는 좌석은 함께 반응합니다.
-3. **개선안 비교 → 비교 시작**: ① 순정 공조 화면(또는 콘솔 **Climate → Sync**)에서 SYNC를 켜면 다음 단계로 넘어갑니다. ② 콘솔 **Convenience → Seat Occupancy**에서 조수석을 **Occupied**로 바꾸면(또는 **동승자 탑승 시연**) 앱이 SYNC를 켭니다. ③ 결과를 보고 선호와 이유를 고릅니다.
+3. **개선안 비교 → 비교 시작**: ① 순정 공조 화면(또는 콘솔 **Climate → Sync**)에서 SYNC를 켜면 다음 단계로 넘어갑니다. ② 조수석을 **Occupied**로 바꾸면(또는 **동승자 탑승 시연**) 앱이 SYNC를 켭니다. ③ 결과를 보고 선호와 이유를 고릅니다.
 4. 장기 미션 첫날은 착석 구역 공조가 켜진 상태로 이 화면을 **1분** 유지하면 기록됩니다.
 
 </details>
@@ -273,7 +307,8 @@ PC 브라우저에서 [Pleos Virtual Console](http://127.0.0.1:8088/)을 열고 
 
 - 모든 기록은 **앱 전용 저장소에만** 보관합니다. **서버로 전송하거나 현대차그룹에 전달하는 기능은 없습니다.**
 - 앱이 뒤에서 기록하는 동안에는 "ORBIT X 주행 기록 중" 알림이 표시됩니다. 앱을 닫고 주차 상태로 드라이브·내비 안내 없이 10분이 지나면 기록을 멈춥니다.
-- 연속 GPS 경로, 카메라 영상, 음성은 수집하지 않습니다. 반복 방문 비교에는 목적지 해시만 씁니다(익명화를 보장하는 값은 아님). 드라이브 기록의 장소와 좌표는 **다시 가기**를 위해 기기에만 최근 20건 보관합니다.
+- 연속 GPS 경로, 카메라 영상, 음성은 수집하지 않습니다. 주행 중 속도는 급가속·급제동 횟수와 평균 속도를 계산하는 데만 쓰고 원본은 저장하지 않습니다.
+- 반복 방문 비교에는 목적지 해시만 씁니다(익명화를 보장하는 값은 아님). 드라이브 기록의 장소와 좌표는 **다시 가기**를 위해 기기에만 최근 20건 보관합니다.
 - **MY ORBIT → 기록 관리 → 기록 초기화**로 지울 수 있습니다. `시연용 · 배포 전 제거`
 
 <details>
@@ -282,7 +317,7 @@ PC 브라우저에서 [Pleos Virtual Console](http://127.0.0.1:8088/)을 열고 
 | 기능 | 얻는 데이터와 출처 | 기기에 남기는 내용 |
 | --- | --- | --- |
 | 홈·MY ORBIT | Pleos 프로필 이름(읽을 수 있을 때), 사용자가 입력한 이름, 공조 자동화 설정 | 직접 입력한 이름과 설정 |
-| 주행 효율 리그 | 차량 모델, 누적거리, 배터리 에너지·충전 스위치, 지원 차량 연료량, 착석·공조 전원(읽기 전용) | 월별 거리 기준점, 효율 계산 거리·소비량 합계 |
+| 주행 효율 리그 | 차량 모델, 누적거리, 배터리 에너지·충전 스위치, 지원 차량 연료량, 착석·공조 전원(읽기 전용) | 월별 거리 기준점, 효율 계산 거리·소비량 합계, 도착 배터리 예측 오차 평균 |
 | 드라이브 | 배터리 SOC·에너지, 주행가능거리, 실내온도, 조수석 착석, 차량 속도, 브레이크 페달, 공조 전원, 내비 목적지·남은 거리·도착 배터리·도착 이벤트 | 진행 중 목적지, 리포트, 추천 수락 기록, 드라이브 기록(최근 20건), 목적지 해시와 방문일(7일), 예측·실제 도착 배터리(kWh), 내비 예상 전비, 주행 중 측정(급가속·급제동 횟수, 공조 시간, 평균 속도) |
 | 착석 연동 공조 | 네 좌석 착석, 실내온도, 공조 구역 상태 | 자동화 설정, 장기 미션 완료일·의견 (연속 신호 이력은 저장 안 함) |
 | X-LAB A/B 비교 | SYNC 상태(차량 신호)로 확인한 두 방식의 완료와 운전자 조작 여부, 착석 신호 출처, 선호와 이유 | 최근 실험 결과 |
@@ -300,13 +335,14 @@ PC 브라우저에서 [Pleos Virtual Console](http://127.0.0.1:8088/)을 열고 
 | 개발팀이 답할 질문 | 비교할 지표 | 결과를 쓰는 예 |
 | --- | --- | --- |
 | 새 기능이 기존 방식보다 편한가? | 과제 완료율, 운전자 조작 필요 여부·횟수, 오류·중단 비율, 선호와 이유 | 자동 전환이 편해도 오작동 우려가 많으면 적용 조건과 상태 표시부터 고쳐 다시 비교 |
+| 순정 기능의 예측이 맞는가? | 차종·계절별 내비 예상 전비·도착 배터리와 실제의 차이, 급가속·급제동·공조 사용과의 관계 | 공조나 운전 습관에서 오차가 커지면 예측 모델에 그 요인을 반영하도록 개선 과제로 넘김 |
 | 기능을 왜 안 쓰는가? | 미사용 이유 비율 (몰랐음 / 사용법 모름 / 필요 없음) | 몰랐다면 노출 위치, 어려웠다면 안내, 필요가 낮다면 기능 우선순위를 재검토 |
 | 첫 체험 뒤에도 계속 쓰는가? | 서로 다른 날의 사용 횟수, 7일 완료율, 계속 쓸 의향 | 첫날만 좋고 이어지지 않으면 반복 사용 중 불편을 점검 |
 | OTA 뒤 무엇을 고쳐야 하나? | 버전별 버튼 발견율, 완료율, 불편·만족 응답 | 버튼은 유용한데 못 찾는다면 기능을 빼지 않고 위치와 아이콘을 수정 |
 | 다음에 무엇을 실험할까? | 제안 주제의 빈도, 문제 상황, 차종·기능 범위 | 여러 차종에서 반복되면 공통 UI 후보, 특정 옵션에서만 생기면 차종별 과제 |
 
 - **동의와 최소 수집:** 서버 단계에서는 체험과 데이터 제공을 구분하고, 전송 전에 항목·목적·보관 기간을 안내합니다. 실험 ID·버전·과제 결과·선택형 응답 등 판단에 필요한 항목만 보내고, 이름·VIN·원본 목적지와 경로·좌석 신호 연속 기록은 보내지 않습니다.
-- **보상 구조:** 체험과 응답을 끝내면 포인트를 주고, 블루멤버스 포인트로 바꿔 그룹 서비스에서 쓰게 합니다. 이유는 [MY ORBIT · 보상](#my-orbit--보상)에 정리했습니다.
+- **보상 구조:** 체험과 응답을 끝내면 포인트를 주고, 블루멤버스 포인트로 바꿔 그룹 서비스에서 쓰게 합니다.
 
 ---
 
@@ -320,10 +356,11 @@ PC 브라우저에서 [Pleos Virtual Console](http://127.0.0.1:8088/)을 열고 
 
 | 구분 | 내용 |
 | --- | --- |
-| **실제 동작** | 착석 연동 공조, 빈 좌석 공조 감지·끄기, 실제 도어 잠금, 추정 전비, 드라이브 리포트, 내비 예상 전비 vs 실제 전비, 도착 배터리 예측 vs 실제, 급가속·급제동·공조 시간·평균 속도 측정과 내비 위 주행 습관 안내, 왕복 가능 거리, 내비 경로 연동과 자동 도착 기록, 주행 중 내비 위 알림, 앱이 뒤에 있을 때의 백그라운드 기록, 주행 제한 잠금 |
-| **앱 내 재현·예시** | 리그 순위·경쟁자·시상액, 같은 차종 사용/미사용 비교 수치, 내비 없이 하는 모의 도착 |
-| **검증 환경 한계** | Pleos Connect v2.1.0 에뮬레이터는 공조 전원이 전 좌석 한 구역이고, 앞좌석 풍량도 운전석·조수석이 하나로 묶여 있습니다(1~8단, 0단 없음). 그래서 빈 좌석만 바람을 0단으로 끄는 동작은 확인하지 못했습니다. 실제 차량은 좌석별 풍량·풍향 제어가 가능하므로, 같은 코드가 차량이 보고하는 구역에 맞춰 빈 좌석 풍량을 가장 약하게(지원 시 0단) 내립니다. 풍향은 SDK에 끄기 값이 없어 풍량으로만 줄입니다. |
-| **향후 계획** | 현대자동차그룹 개발·OTA 배포 체계와의 연계(앱은 근거 수집까지만 담당), 서버 집계와 실제 참여자 리그, 블루멤버스 실제 전환, 휴게·동승자 코스 알림, 음성(TextToSpeech·Gleo) 안내, 실차 연료량 기반 연비 검증 |
+| **실제 동작** | 착석 연동 공조, 빈 좌석 공조 감지·끄기, 실제 도어 잠금, 추정 전비와 순위 등록, 드라이브 추천·자동 연결·리포트, 내비 예상 전비·도착 배터리 vs 실제, 급가속·급제동·공조 시간·평균 속도 측정, 내비 위 주행 습관 안내·충전 알림·실험 질문, 앱이 뒤에 있을 때의 백그라운드 기록, 주행 제한 잠금, 다크·라이트 모드 |
+| **앱 내 재현·예시** | 리그의 다른 참가자·시상액, 같은 차종 사용/미사용 비교 수치, 도착 배터리 예측의 같은 차종 평균, 내비 없이 하는 모의 도착 |
+| **현대자동차그룹 연계가 필요한 부분** | OTA 배포와 배포 판단, 서버 집계와 실제 참여자 리그, 블루멤버스 실제 전환 |
+| **검증 환경 한계** | Pleos Connect v2.1.0 에뮬레이터는 공조 전원이 전 좌석 한 구역이고 앞좌석 풍량도 하나로 묶여 있어(1–8단, 0단 없음), 빈 좌석만 바람을 끄는 동작은 확인하지 못했습니다. 실제 차량은 좌석별 풍량을 지원하므로 같은 코드가 빈 좌석 풍량을 가장 약하게(지원 시 0단) 내립니다. 순정 내비의 출발 위치는 에뮬레이터에서 고정입니다. |
+| **향후 계획** | 휴게·동승자 코스 알림, 음성(TextToSpeech·Gleo) 안내, 실차 연료량 기반 연비 검증 |
 
 월간 전비 계산은 신호가 따로 도착하는 경우, 충전 구간을 빼는 경우, 신호가 끊겼다가 다시 들어오는 경우를 단위 테스트로 검증합니다. 도착 배터리 비교는 예측보다 더 쓴 경우·덜 쓴 경우, 예측이 없는 경우, 중간 충전으로 비교에서 빠지는 경우를, 주행 중 측정은 저장·복원과 값이 빠진 경우를 검증합니다.
 
